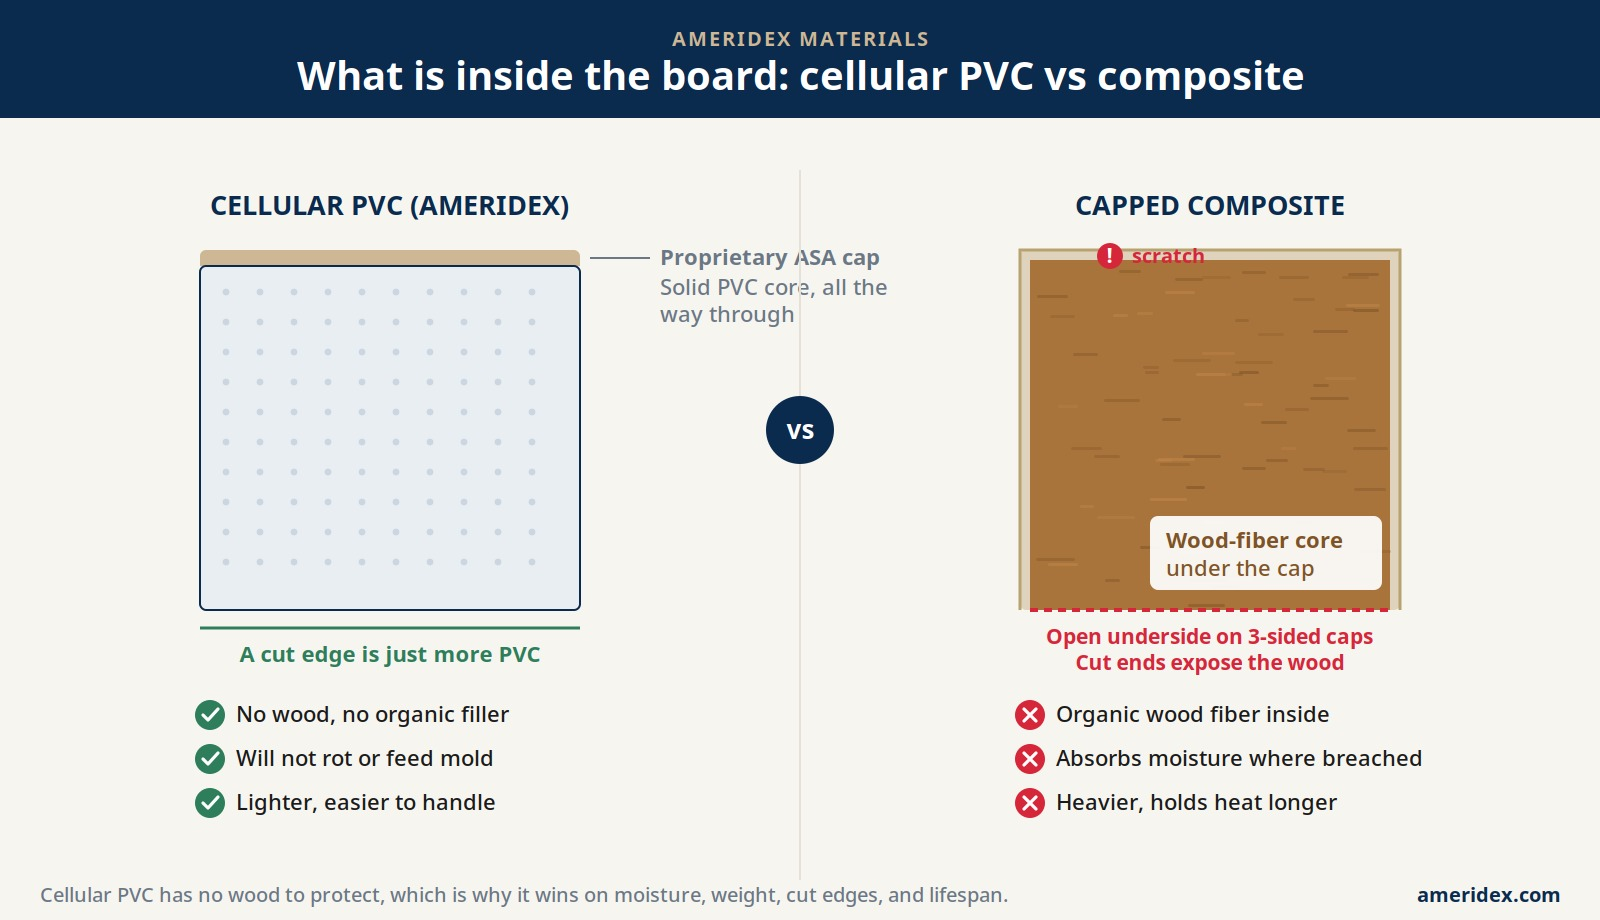
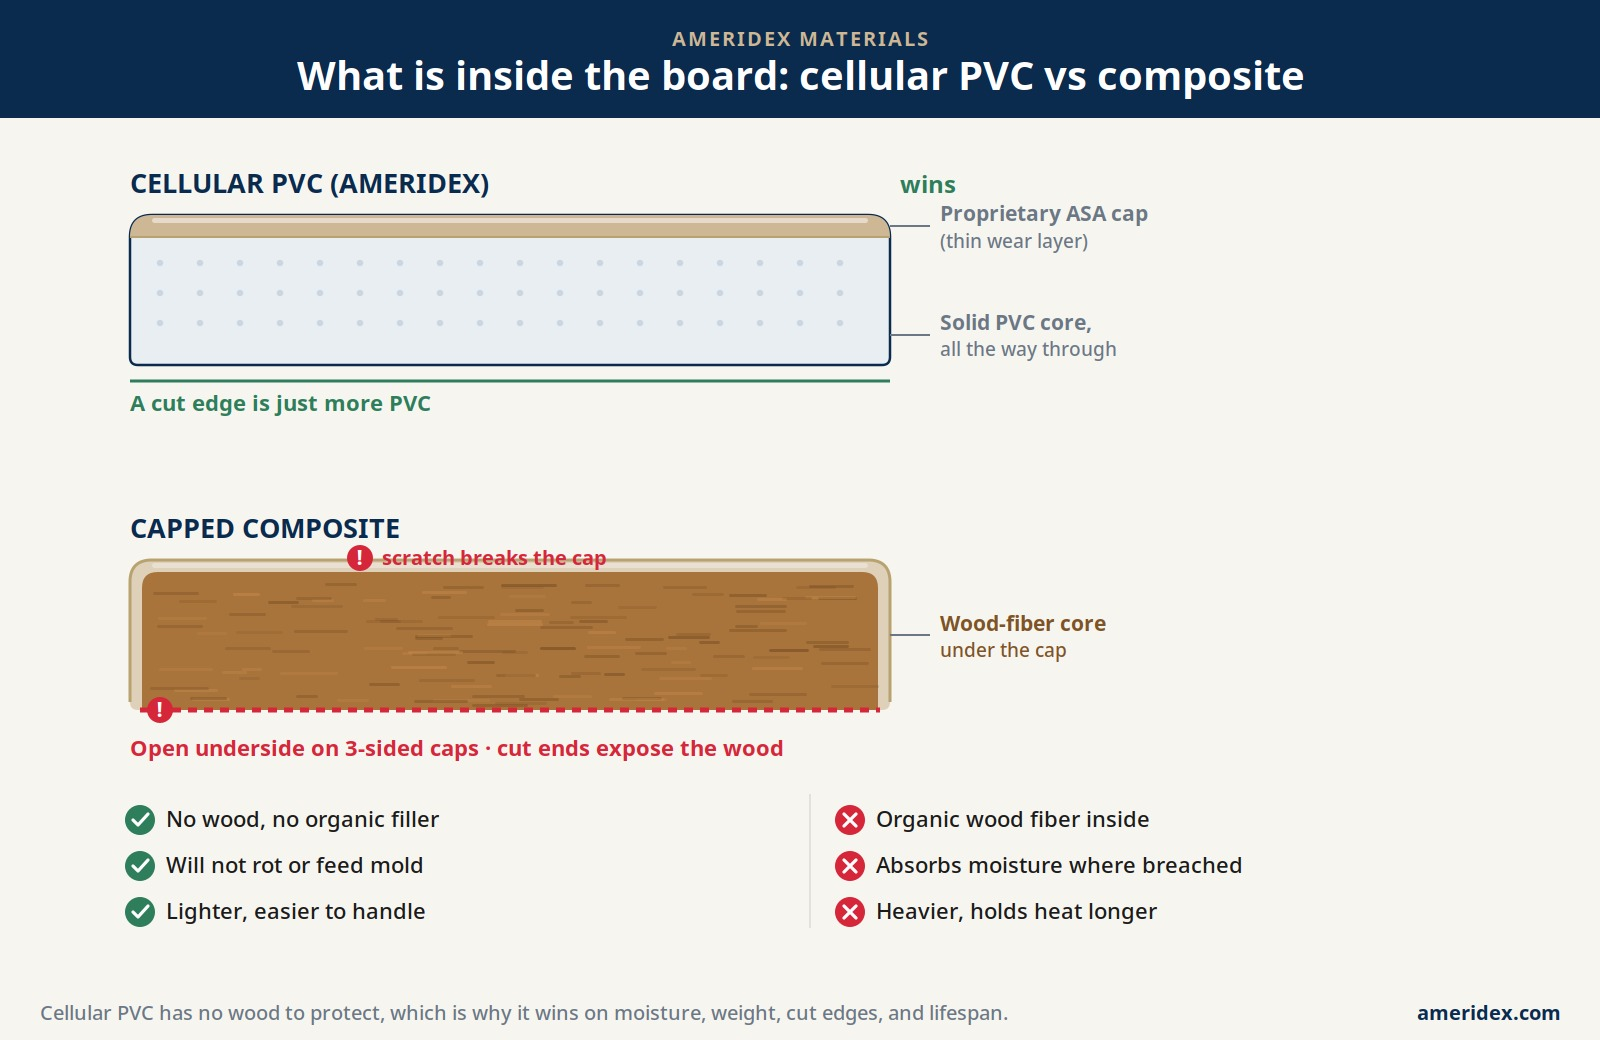
Redraw PVC vs composite diagram as deck-board cross-sections
Boards now render as wide deck-board profiles with eased top edges, ASA cap wear layer, and a stacked layout instead of square blocks.

diff --git a/build_diagram.py b/build_diagram.py
@@ -1,11 +1,12 @@
 #!/usr/bin/env python3
-"""Render the PVC-vs-composite cross-section diagram as a crisp SVG -> PNG."""
-import subprocess, os
+"""Render the PVC-vs-composite deck-board cross-section diagram as crisp SVG -> PNG."""
+import subprocess, random
 
 NAVY   = "#0A2A4E"
 NAVYD  = "#071F3A"
 RED    = "#D6263A"
 GOLD   = "#CDB795"
+GOLDD  = "#B8A270"
 CREAM  = "#EFEAE0"
 OFFW   = "#F7F5F0"
 INK    = "#1A1A1A"
@@ -13,50 +14,71 @@ GREY   = "#6B7785"
 LINE   = "#E5E1D8"
 GREEN  = "#2E7D5B"
 
-W, H = 1600, 920
+W, H = 1600, 1040
+
+def rounded_board_path(x, y, w, h, r_top, r_bot):
+    """Deck-board cross-section: eased (rounded) top corners, slightly eased bottom."""
+    return (f'M {x} {y+r_top} '
+            f'Q {x} {y} {x+r_top} {y} '
+            f'L {x+w-r_top} {y} '
+            f'Q {x+w} {y} {x+w} {y+r_top} '
+            f'L {x+w} {y+h-r_bot} '
+            f'Q {x+w} {y+h} {x+w-r_bot} {y+h} '
+            f'L {x+r_bot} {y+h} '
+            f'Q {x} {y+h} {x} {y+h-r_bot} Z')
 
 def board_pvc(x, y, w, h):
-    """Solid cellular PVC board: uniform fill, ASA cap top strip, no internal layers."""
+    """Solid cellular PVC deck board: wide profile, eased top, ASA cap wear layer, uniform core."""
     parts = []
-    # ASA cap (top thin strip) - gold
-    cap_h = 16
-    parts.append(f'<rect x="{x}" y="{y}" width="{w}" height="{cap_h}" rx="6" fill="{GOLD}"/>')
-    parts.append(f'<rect x="{x}" y="{y+cap_h-6}" width="{w}" height="6" fill="{GOLD}"/>')
-    # solid PVC core - one uniform material, subtle cellular dots
-    parts.append(f'<rect x="{x}" y="{y+cap_h}" width="{w}" height="{h-cap_h}" rx="6" fill="#E9EEF3" stroke="{NAVY}" stroke-width="2"/>')
-    # uniform "cellular" texture: faint even dots, signalling homogeneous core
+    rt, rb = 22, 8
+    cap_h = 22
+    # full board body (solid PVC) - light cool grey
+    parts.append(f'<path d="{rounded_board_path(x,y,w,h,rt,rb)}" fill="#E9EEF3" stroke="{NAVY}" stroke-width="2.5"/>')
+    # ASA cap as a thin top wear layer that follows the eased top
+    cap_path = (f'M {x} {y+cap_h} '
+                f'L {x} {y+rt} Q {x} {y} {x+rt} {y} '
+                f'L {x+w-rt} {y} Q {x+w} {y} {x+w} {y+rt} '
+                f'L {x+w} {y+cap_h} Z')
+    parts.append(f'<path d="{cap_path}" fill="{GOLD}"/>')
+    parts.append(f'<line x1="{x}" y1="{y+cap_h}" x2="{x+w}" y2="{y+cap_h}" stroke="{GOLDD}" stroke-width="2"/>')
+    # top-face sheen highlight (gives 3D board read)
+    parts.append(f'<rect x="{x+rt}" y="{y+3}" width="{w-2*rt}" height="5" rx="2.5" fill="#FFFFFF" opacity="0.5"/>')
+    # uniform cellular texture below the cap -> homogeneous solid core
     dots = []
-    import random
     random.seed(7)
-    for gx in range(int(x)+26, int(x+w)-18, 34):
-        for gy in range(int(y+cap_h)+26, int(y+h)-18, 30):
-            dots.append(f'<circle cx="{gx}" cy="{gy}" r="3.4" fill="#CBD6E0"/>')
+    for gx in range(int(x)+30, int(x+w)-22, 40):
+        for gy in range(int(y+cap_h)+26, int(y+h)-16, 30):
+            dots.append(f'<circle cx="{gx}" cy="{gy}" r="3.2" fill="#CBD6E0"/>')
     parts.append("".join(dots))
     return "".join(parts)
 
 def board_composite(x, y, w, h):
-    """Capped composite: polymer cap shell + visible wood-fiber core inside."""
+    """Capped composite deck board: wide profile, eased top, polymer cap shell, wood-fiber core, open bottom."""
     parts = []
-    cap = 10
-    # outer polymer cap (3-sided: top, left, right; bottom open)
-    parts.append(f'<rect x="{x}" y="{y}" width="{w}" height="{h}" rx="6" fill="{GOLD}" opacity="0.55"/>')
-    # wood-fiber core (inset), warm brown with streaks
-    cx, cy, cw, ch = x+cap, y+cap, w-2*cap, h-cap  # bottom NOT capped -> open
-    parts.append(f'<rect x="{cx}" y="{cy}" width="{cw}" height="{ch}" fill="#A9743B"/>')
-    # wood-fiber streaks
+    rt, rb = 22, 8
+    cap = 12
+    # outer polymer cap shell following board profile
+    parts.append(f'<path d="{rounded_board_path(x,y,w,h,rt,rb)}" fill="{GOLD}" opacity="0.6"/>')
+    # wood-fiber core inset on top/left/right, OPEN at the bottom (3-sided cap)
+    cx, cy, cw, ch = x+cap, y+cap, w-2*cap, h-cap
+    parts.append(f'<path d="{rounded_board_path(cx,cy,cw,ch,rt-6,0)}" fill="#A9743B"/>')
+    # wood-fiber streaks (horizontal grain inside the core)
     streaks = []
-    import random
     random.seed(11)
-    for i in range(70):
-        sx = random.uniform(cx+6, cx+cw-30)
-        sy = random.uniform(cy+6, cy+ch-6)
-        ln = random.uniform(14, 40)
+    for _ in range(120):
+        sx = random.uniform(cx+8, cx+cw-44)
+        sy = random.uniform(cy+10, cy+ch-6)
+        ln = random.uniform(20, 60)
         op = random.uniform(0.18, 0.5)
         col = random.choice(["#7E5326", "#C68A4C", "#6B451F"])
         streaks.append(f'<rect x="{sx:.0f}" y="{sy:.0f}" width="{ln:.0f}" height="3" rx="1.5" fill="{col}" opacity="{op:.2f}"/>')
     parts.append("".join(streaks))
-    # thin cap outline so the shell reads clearly
-    parts.append(f'<path d="M {x} {y+h} L {x} {y} L {x+w} {y} L {x+w} {y+h}" fill="none" stroke="#B8A270" stroke-width="3"/>')
+    # cap outline (drawn on 3 sides only: left, top, right) to show open underside
+    parts.append(f'<path d="M {x} {y+h-rb} L {x} {y+rt} Q {x} {y} {x+rt} {y} '
+                 f'L {x+w-rt} {y} Q {x+w} {y} {x+w} {y+rt} L {x+w} {y+h-rb}" '
+                 f'fill="none" stroke="{GOLDD}" stroke-width="3"/>')
+    # top-face sheen
+    parts.append(f'<rect x="{x+rt}" y="{y+3}" width="{w-2*rt}" height="5" rx="2.5" fill="#FFFFFF" opacity="0.35"/>')
     return "".join(parts)
 
 def label(x, y, text, color=NAVY, size=30, weight=700, anchor="start"):
@@ -64,7 +86,6 @@ def label(x, y, text, color=NAVY, size=30, weight=700, anchor="start"):
             f'font-size="{size}" font-weight="{weight}" fill="{color}" text-anchor="{anchor}">{text}</text>')
 
 def tag(x, y, text, color):
-    """small uppercase kicker"""
     return (f'<text x="{x}" y="{y}" font-family="Archivo, Arial, sans-serif" font-size="20" '
             f'font-weight="800" letter-spacing="2" fill="{color}" text-anchor="middle">{text}</text>')
 
@@ -75,9 +96,13 @@ def chip(cx, cy, text, ok):
             '<path d="M -6 -6 L 6 6 M 6 -6 L -6 6" fill="none" stroke="white" stroke-width="3.2" stroke-linecap="round"/>')
     return (f'<g transform="translate({cx},{cy})">'
             f'<circle cx="0" cy="0" r="15" fill="{col}"/>'
-            f'<g transform="translate(0,0)">{icon}</g>'
+            f'<g>{icon}</g>'
             f'<text x="26" y="7" font-family="Inter, Arial, sans-serif" font-size="22" font-weight="500" fill="{INK}">{text}</text>'
             f'</g>')
+
+def breach_dot(cx, cy):
+    return (f'<g><circle cx="{cx}" cy="{cy}" r="13" fill="{RED}"/>'
+            f'<text x="{cx}" y="{cy+7}" font-family="Archivo, Arial, sans-serif" font-size="22" font-weight="800" fill="white" text-anchor="middle">!</text></g>')
 
 svg = []
 svg.append(f'<svg xmlns="http://www.w3.org/2000/svg" width="{W}" height="{H}" viewBox="0 0 {W} {H}">')
@@ -88,77 +113,66 @@ svg.append(f'<rect x="0" y="0" width="{W}" height="118" fill="{NAVY}"/>')
 svg.append(tag(W/2, 46, "AMERIDEX MATERIALS", GOLD))
 svg.append(f'<text x="{W/2}" y="90" font-family="Archivo, Arial, sans-serif" font-size="40" font-weight="800" fill="#FFFFFF" text-anchor="middle">What is inside the board: cellular PVC vs composite</text>')
 
-# --- LEFT: cellular PVC ---
-lx, by, bw, bh = 200, 250, 380, 360
-svg.append(board_pvc(lx, by, bw, bh))
-svg.append(label(lx+bw/2, 215, "CELLULAR PVC (AMERIDEX)", NAVY, 27, 800, "middle"))
+# board geometry (wide deck-board cross-sections, stacked)
+BX, BW, BH = 130, 760, 150
+TOP_Y = 215
+BOT_Y = 560
+
+# ===== TOP: CELLULAR PVC =====
+svg.append(label(BX, TOP_Y-22, "CELLULAR PVC  (AMERIDEX)", NAVY, 27, 800))
+svg.append(label(BX+BW+10, TOP_Y-22, "wins", GREEN, 24, 800))
+svg.append(board_pvc(BX, TOP_Y, BW, BH))
 # ASA cap callout
-svg.append(f'<line x1="{lx+bw+10}" y1="{by+8}" x2="{lx+bw+70}" y2="{by+8}" stroke="{GREY}" stroke-width="2"/>')
-svg.append(label(lx+bw+80, by+15, "Proprietary ASA cap", GREY, 22, 600))
-svg.append(label(lx+bw+80, by+45, "Solid PVC core, all the", GREY, 22, 400))
-svg.append(label(lx+bw+80, by+72, "way through", GREY, 22, 400))
-# cut edge note
-svg.append(f'<line x1="{lx}" y1="{by+bh+18}" x2="{lx+bw}" y2="{by+bh+18}" stroke="{GREEN}" stroke-width="3"/>')
-svg.append(label(lx+bw/2, by+bh+52, "A cut edge is just more PVC", GREEN, 22, 700, "middle"))
-# chips
-cyl = by+bh+105
-svg.append(chip(lx+10, cyl,      "No wood, no organic filler", True))
-svg.append(chip(lx+10, cyl+44,   "Will not rot or feed mold", True))
-svg.append(chip(lx+10, cyl+88,   "Lighter, easier to handle", True))
+svg.append(f'<line x1="{BX+BW}" y1="{TOP_Y+11}" x2="{BX+BW+40}" y2="{TOP_Y+11}" stroke="{GREY}" stroke-width="2"/>')
+svg.append(label(BX+BW+50, TOP_Y+6, "Proprietary ASA cap", GREY, 21, 700))
+svg.append(label(BX+BW+50, TOP_Y+33, "(thin wear layer)", GREY, 19, 400))
+# solid-core callout
+svg.append(f'<line x1="{BX+BW}" y1="{TOP_Y+BH-30}" x2="{BX+BW+40}" y2="{TOP_Y+BH-30}" stroke="{GREY}" stroke-width="2"/>')
+svg.append(label(BX+BW+50, TOP_Y+BH-35, "Solid PVC core,", GREY, 21, 700))
+svg.append(label(BX+BW+50, TOP_Y+BH-9, "all the way through", GREY, 19, 400))
+# green cut-edge note under board
+svg.append(f'<line x1="{BX}" y1="{TOP_Y+BH+16}" x2="{BX+BW}" y2="{TOP_Y+BH+16}" stroke="{GREEN}" stroke-width="3"/>')
+svg.append(label(BX, TOP_Y+BH+46, "A cut edge is just more PVC", GREEN, 22, 700))
 
-# --- RIGHT: composite ---
-rx = 1020
-svg.append(board_composite(rx, by, bw, bh))
-svg.append(label(rx+bw/2, 215, "CAPPED COMPOSITE", NAVY, 27, 800, "middle"))
-# core callout (placed inside the board to avoid the center 'vs' badge)
-svg.append(f'<rect x="{rx+bw-250}" y="{by+bh-94}" width="232" height="74" rx="8" fill="#FFFFFF" opacity="0.92"/>')
-svg.append(label(rx+bw-234, by+bh-62, "Wood-fiber core", "#7E5326", 22, 800))
-svg.append(label(rx+bw-234, by+bh-34, "under the cap", "#7E5326", 22, 500))
-# breach markers (red) on the cap
-def breach(cx, cy, txt):
-    return (f'<g><circle cx="{cx}" cy="{cy}" r="13" fill="{RED}"/>'
-            f'<text x="{cx}" y="{cy+7}" font-family="Archivo, Arial, sans-serif" font-size="22" font-weight="800" fill="white" text-anchor="middle">!</text></g>'
-            + label(cx+22, cy+7, txt, RED, 20, 700))
-# top scratch breach
-svg.append(breach(rx+90, by+6, "scratch"))
-# bottom open (3-sided) breach
-svg.append(f'<line x1="{rx+10}" y1="{by+bh}" x2="{rx+bw-10}" y2="{by+bh}" stroke="{RED}" stroke-width="4" stroke-dasharray="8 6"/>')
-svg.append(label(rx+bw/2, by+bh+34, "Open underside on 3-sided caps", RED, 21, 700, "middle"))
-svg.append(label(rx+bw/2, by+bh+60, "Cut ends expose the wood", RED, 21, 700, "middle"))
-# chips
-svg.append(chip(rx+10, cyl,      "Organic wood fiber inside", False))
-svg.append(chip(rx+10, cyl+44,   "Absorbs moisture where breached", False))
-svg.append(chip(rx+10, cyl+88,   "Heavier, holds heat longer", False))
+# ===== BOTTOM: CAPPED COMPOSITE =====
+svg.append(label(BX, BOT_Y-22, "CAPPED COMPOSITE", NAVY, 27, 800))
+svg.append(board_composite(BX, BOT_Y, BW, BH))
+# scratch breach on top cap
+svg.append(breach_dot(BX+230, BOT_Y-2))
+svg.append(label(BX+230+22, BOT_Y+5, "scratch breaks the cap", RED, 20, 700))
+# wood-fiber core callout
+svg.append(f'<line x1="{BX+BW}" y1="{BOT_Y+BH/2}" x2="{BX+BW+40}" y2="{BOT_Y+BH/2}" stroke="{GREY}" stroke-width="2"/>')
+svg.append(label(BX+BW+50, BOT_Y+BH/2-4, "Wood-fiber core", "#7E5326", 21, 800))
+svg.append(label(BX+BW+50, BOT_Y+BH/2+22, "under the cap", "#7E5326", 19, 500))
+# open-bottom breach
+svg.append(f'<line x1="{BX+10}" y1="{BOT_Y+BH}" x2="{BX+BW-10}" y2="{BOT_Y+BH}" stroke="{RED}" stroke-width="5" stroke-dasharray="9 7"/>')
+svg.append(breach_dot(BX+30, BOT_Y+BH))
+svg.append(label(BX, BOT_Y+BH+46, "Open underside on 3-sided caps  ·  cut ends expose the wood", RED, 22, 700))
 
-# center divider
-svg.append(f'<line x1="{W/2}" y1="170" x2="{W/2}" y2="{H-40}" stroke="{LINE}" stroke-width="2"/>')
-svg.append(f'<circle cx="{W/2}" cy="{by+bh/2}" r="34" fill="{NAVY}"/>')
-svg.append(f'<text x="{W/2}" y="{by+bh/2+9}" font-family="Archivo, Arial, sans-serif" font-size="26" font-weight="800" fill="white" text-anchor="middle">vs</text>')
+# ===== chips row =====
+CYL = 820
+svg.append(chip(BX+10, CYL,      "No wood, no organic filler", True))
+svg.append(chip(BX+10, CYL+46,   "Will not rot or feed mold", True))
+svg.append(chip(BX+10, CYL+92,   "Lighter, easier to handle", True))
+RCX = 850
+svg.append(chip(RCX, CYL,      "Organic wood fiber inside", False))
+svg.append(chip(RCX, CYL+46,   "Absorbs moisture where breached", False))
+svg.append(chip(RCX, CYL+92,   "Heavier, holds heat longer", False))
+# subtle divider between chip columns
+svg.append(f'<line x1="{RCX-40}" y1="{CYL-26}" x2="{RCX-40}" y2="{CYL+108}" stroke="{LINE}" stroke-width="2"/>')
 
 # footer caption
-svg.append(f'<text x="40" y="{H-18}" font-family="Inter, Arial, sans-serif" font-size="20" fill="{GREY}" text-anchor="start">Cellular PVC has no wood to protect, which is why it wins on moisture, weight, cut edges, and lifespan.</text>')
-svg.append(f'<text x="{W-40}" y="{H-18}" font-family="Archivo, Arial, sans-serif" font-size="20" font-weight="700" fill="{NAVY}" text-anchor="end">ameridex.com</text>')
+svg.append(f'<text x="40" y="{H-20}" font-family="Inter, Arial, sans-serif" font-size="20" fill="{GREY}" text-anchor="start">Cellular PVC has no wood to protect, which is why it wins on moisture, weight, cut edges, and lifespan.</text>')
+svg.append(f'<text x="{W-40}" y="{H-20}" font-family="Archivo, Arial, sans-serif" font-size="20" font-weight="700" fill="{NAVY}" text-anchor="end">ameridex.com</text>')
+
 svg.append('</svg>')
 
 svg_str = "".join(svg)
 with open("assets/img/pvc-vs-composite-core.svg", "w") as f:
     f.write(svg_str)
 
-# convert to PNG at 2x for crispness
-out = "assets/img/pvc-vs-composite-core.jpg"
-# try rsvg-convert, then inkscape, then cairosvg
-ok = False
-for cmd in (["rsvg-convert","-w","1600","-h","920","assets/img/pvc-vs-composite-core.svg","-o","assets/img/_tmp.png"],):
-    try:
-        subprocess.run(cmd, check=True)
-        ok = True
-    except Exception as e:
-        print("rsvg failed:", e)
-if not ok:
-    try:
-        import cairosvg
-        cairosvg.svg2png(url="assets/img/pvc-vs-composite-core.svg", write_to="assets/img/_tmp.png", output_width=1600, output_height=920)
-        ok = True
-    except Exception as e:
-        print("cairosvg failed:", e)
-print("rendered_png" if ok else "NO_RENDERER")
+import cairosvg
+cairosvg.svg2png(url="assets/img/pvc-vs-composite-core.svg",
+                 write_to="assets/img/_tmp.png",
+                 output_width=1600, output_height=1040)
+print("rendered_png")